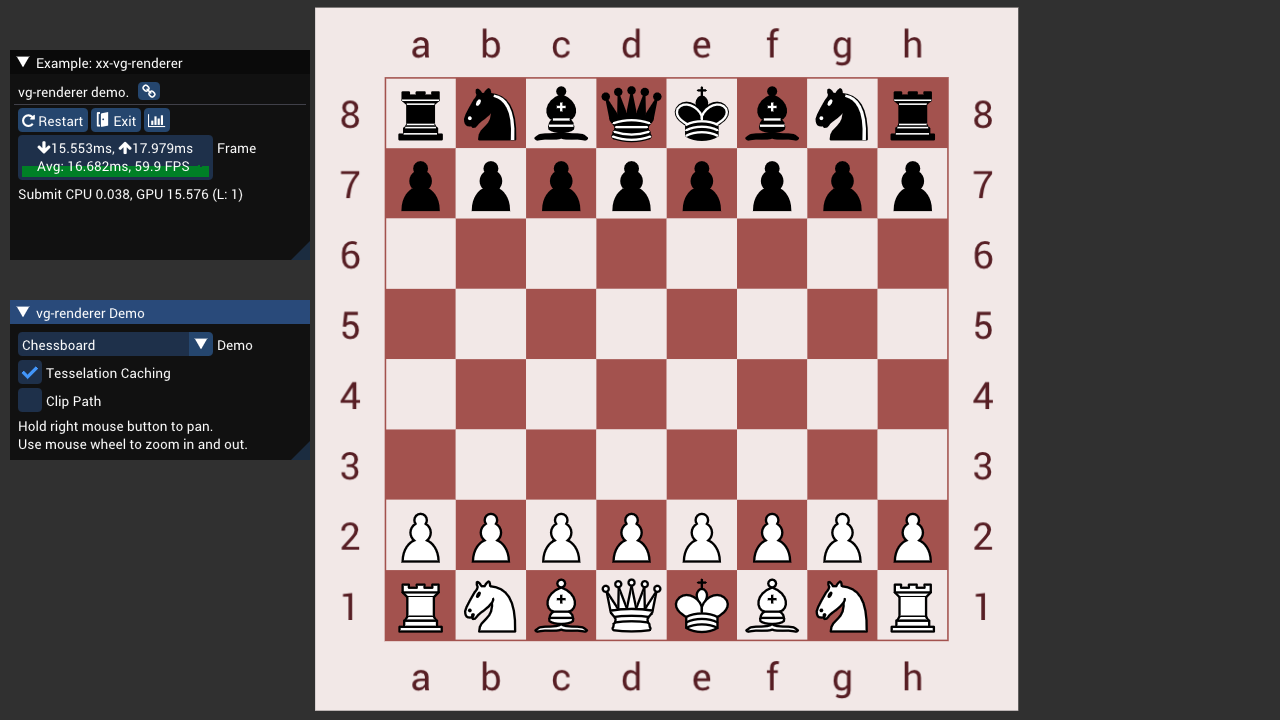
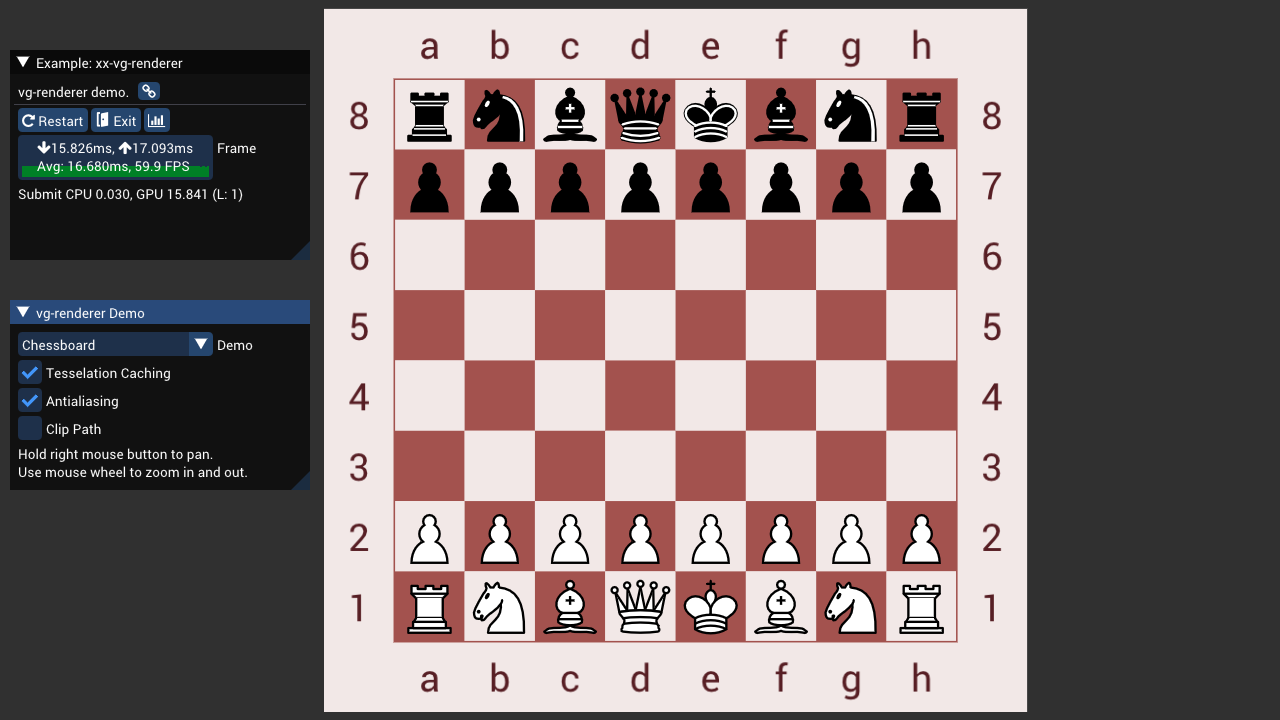
xx-vg-renderer: Cleanup

diff --git a/examples/xx-vg-renderer/vg-renderer.cpp b/examples/xx-vg-renderer/vg-renderer.cpp
@@ -2366,7 +2366,7 @@ public:
 	void showDemoDialog()
 	{
 		ImGui::SetNextWindowPos(ImVec2(10.0f, 300.0f), ImGuiCond_FirstUseEver);
-		ImGui::SetNextWindowSize(ImVec2(300.0f, 160.0f), ImGuiCond_FirstUseEver);
+		ImGui::SetNextWindowSize(ImVec2(300.0f, 190.0f), ImGuiCond_FirstUseEver);
 
 		if (ImGui::Begin("vg-renderer Demo")) {
 			if (ImGui::BeginCombo("Demo", kDemoTitle[m_SelectedDemo])) {
